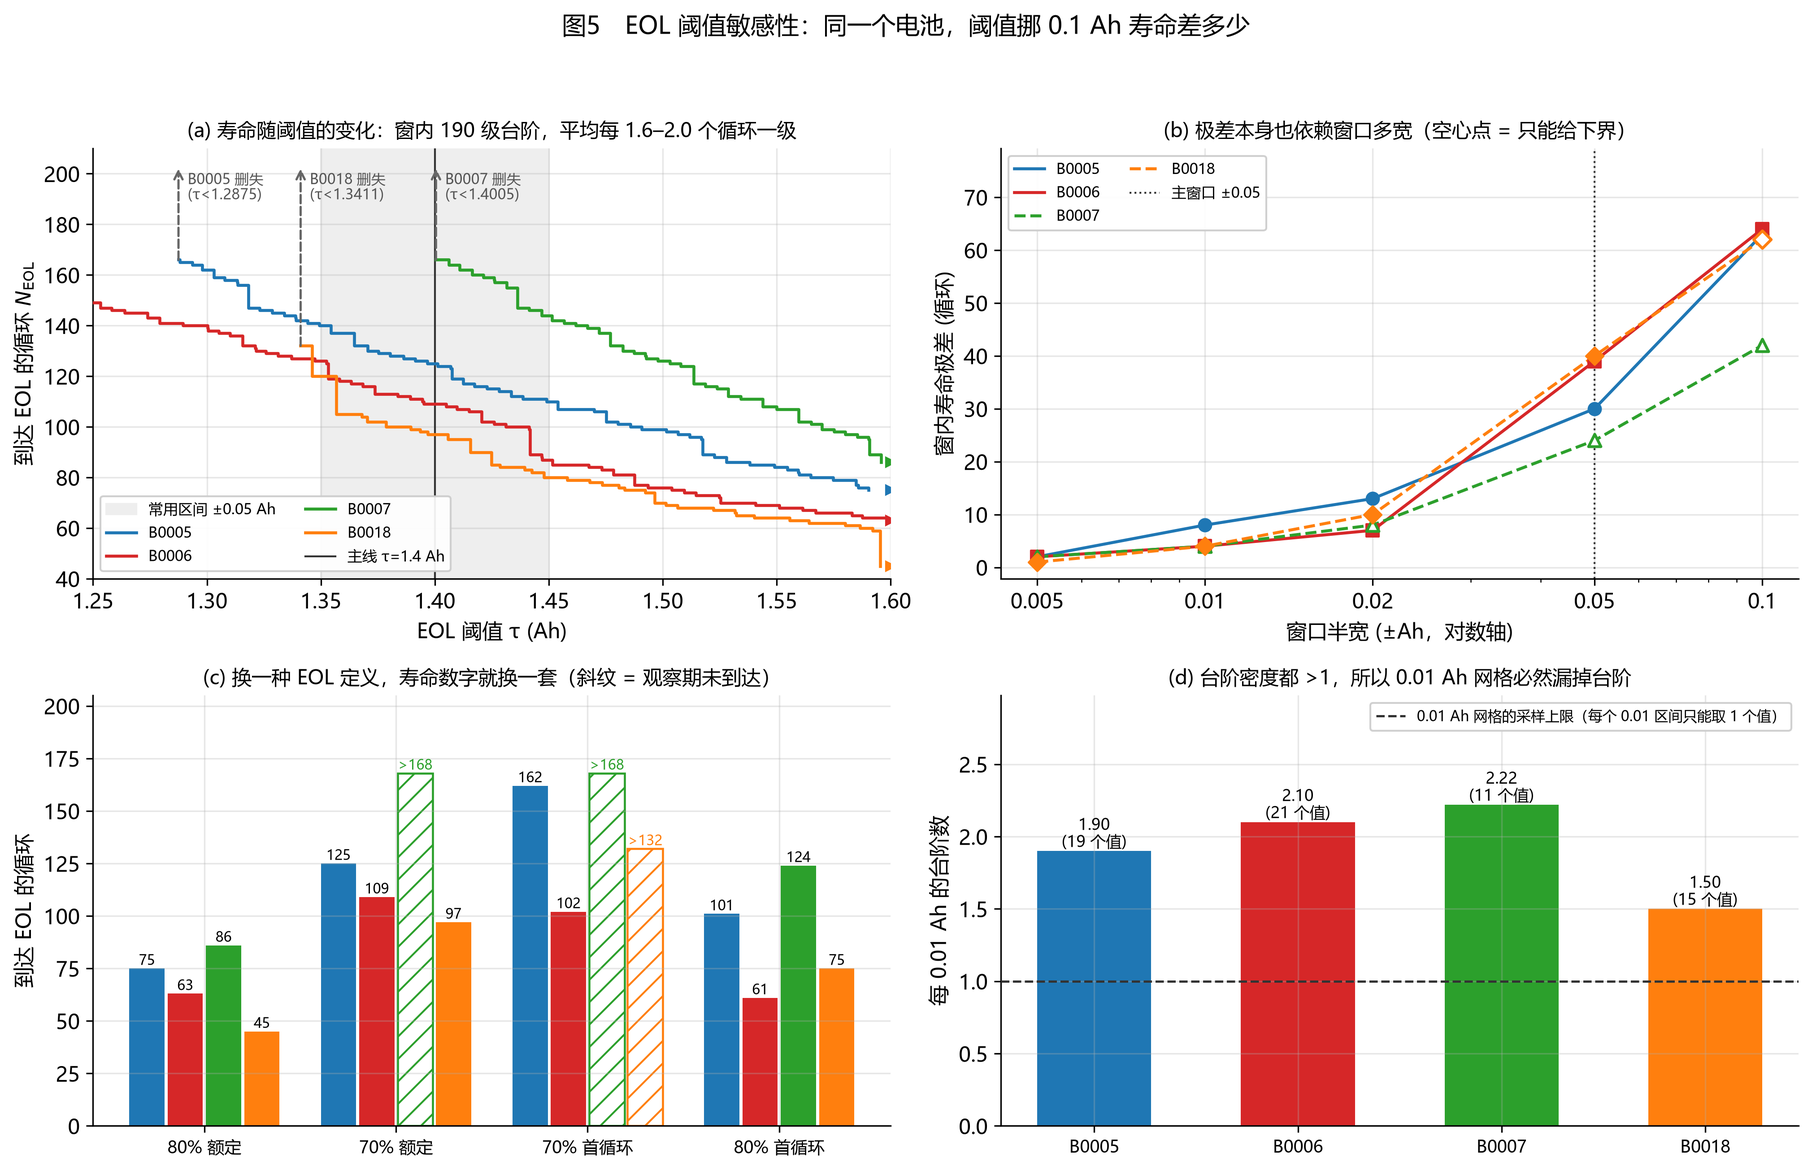
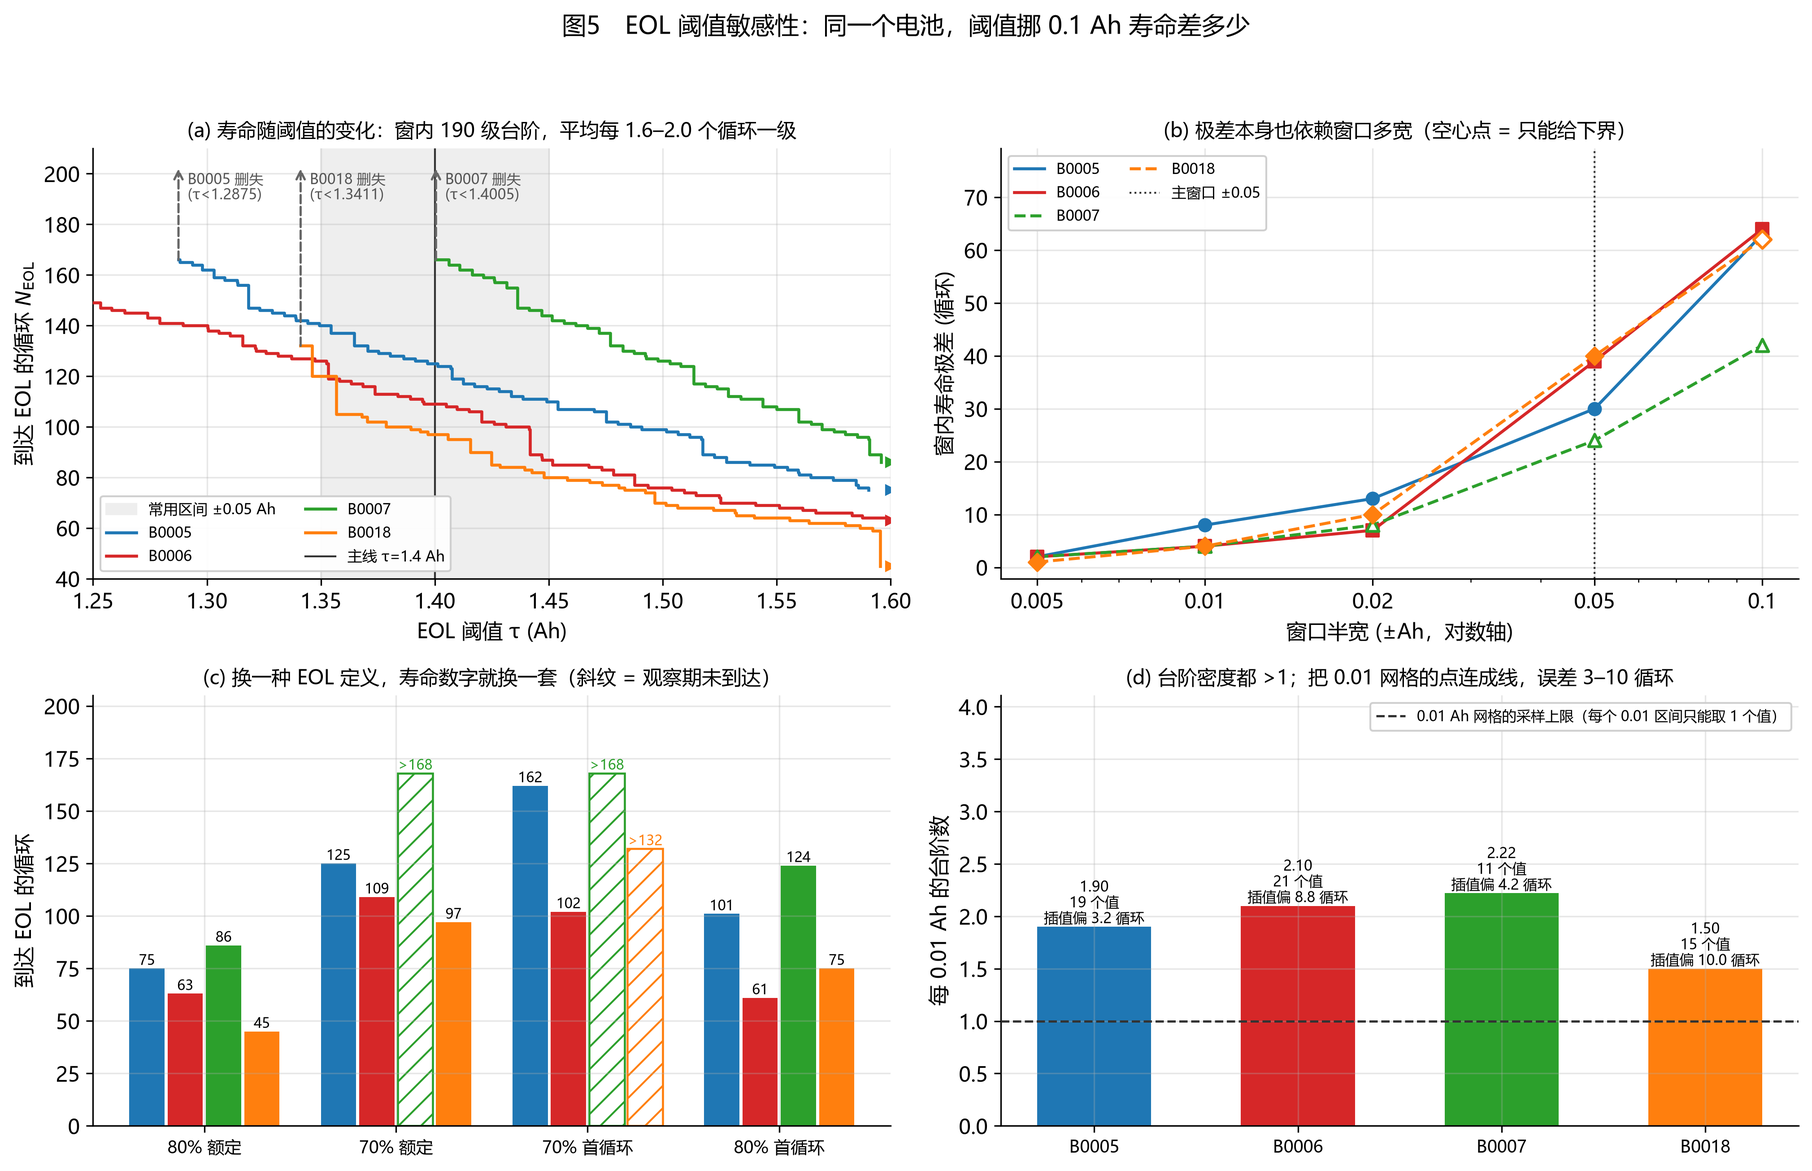
fix(W7): 自查修掉 5 处过度断言，并把网格误差量化成数字
- 「网格会混叠」改成准确说法：采样值本身精确，丢的是分辨率；
  新增 grid_linearisation_error：0.01 网格 + 线性插值最大偏 3.2-10.0 循环（占阈值效应 11%-25%）
- 「刻度比要量的差别还粗」这类越界的比喻删掉（误差 10 vs 效应 30-40，比喻不成立）
- 列名 上偏/下偏 改为 Δ寿命 @下界/@上界：原名会被读成「阈值方向」，含义正好相反
  （顺带修掉一个真 bug：列名含每行的有效下界，B0007 会多长出一列）
- 「两侧并不相等」与「B0005 两侧相等」自相矛盾 → 改为「不能假设两侧对称」
- 不对称方向改为按数字生成，不再手写「B0006 下偏更大」这类结论

diff --git a/src/sensitivity.py b/src/sensitivity.py
@@ -207,8 +207,12 @@ def range_table(series: dict[str, tuple[np.ndarray, np.ndarray]]) -> pd.DataFram
                 "EOL@上界": str(e_hi),
                 "极差 (循环)": str(span),
                 "每 0.01 Ah 的循环数": f"{span / ((hi - lo_eff) / 0.01):.2f}",
-                "上偏 Δ": "—" if e_main is None else f"{e_lo - e_main:+d}",
-                "下偏 Δ": "—" if e_main is None else f"{e_hi - e_main:+d}",
+                # 列名必须与本行数据无关（常量字符串），否则 B0007 那种
+                # 「有效下界不同」的行会多长出一列来——首版就是这么炸的。
+                # 列名写成「@下界/@上界」而不是「上偏/下偏」：后者会被读成
+                # 「阈值上移/下移」，而这里记的是「寿命增减」，方向刚好相反。
+                "Δ寿命 @下界": "—" if e_main is None else f"{e_lo - e_main:+d}",
+                "Δ寿命 @上界": "—" if e_main is None else f"{e_hi - e_main:+d}",
             }
         )
     return pd.DataFrame(rows)
@@ -236,6 +240,45 @@ def window_sweep(series: dict[str, tuple[np.ndarray, np.ndarray]]) -> pd.DataFra
             else:
                 rec[f"±{h:g}"] = str(eol_at_exact(cap, lo) - e_hi)
         rows.append(rec)
+    return pd.DataFrame(rows)
+
+
+def grid_linearisation_error(series: dict[str, tuple[np.ndarray, np.ndarray]],
+                             step: float = 0.01, sub: int = 200) -> pd.DataFrame:
+    """0.01 Ah 网格 + 线性插值画出来的曲线，与真实阶梯的最大偏差（循环）。
+
+    为什么需要这个数：光说「网格会漏台阶」是**不严谨的**。
+    阶梯是单调的，所以网格在采样点上的取值**是精确的**；损失的只是分辨率。
+    真正会出错的是「把相邻采样点用直线连起来」这个动作——几乎所有人（包括
+    matplotlib 的默认行为）都会这么做。所以这里直接量化那个偏差：
+    在每 0.01 Ah 的格子内用 200 个点比对「线性插值值」与「真实阶梯值」。
+    """
+    lo, hi = MAIN_TAU - WINDOW_HALF, MAIN_TAU + WINDOW_HALF
+    n_cell = int(round((hi - lo) / step))
+    ts = np.round(np.arange(lo, hi + 1e-12, step), 10)
+    assert len(ts) == n_cell + 1, "网格点数与步长不符"
+    rows = []
+    for cell, (_, cap) in series.items():
+        ys = [eol_at_exact(cap, t) for t in ts]
+        fine = np.linspace(lo, hi, n_cell * sub + 1)
+        devs = []
+        for t in fine:
+            true = eol_at_exact(cap, t)
+            if true is None:  # 该点真实值删失，无法比较
+                continue
+            k = min(int((t - lo) / step), n_cell - 1)
+            if ys[k] is None or ys[k + 1] is None:
+                continue
+            frac = min(max((t - ts[k]) / step, 0.0), 1.0)
+            devs.append(abs(ys[k] + frac * (ys[k + 1] - ys[k]) - true))
+        assert devs, f"{cell} 没有可比对的点"
+        rows.append(
+            {
+                "电池": cell,
+                "0.01 网格线性插值 最大偏差 (循环)": f"{max(devs):.1f}",
+                "平均偏差 (循环)": f"{np.mean(devs):.2f}",
+            }
+        )
     return pd.DataFrame(rows)
 
 
@@ -371,6 +414,7 @@ def fig05(
     tbl_res: pd.DataFrame,
     tbl_win: pd.DataFrame,
     tbl_def: pd.DataFrame,
+    tbl_err: pd.DataFrame,
     scan: dict,
 ) -> Path:
     setup_matplotlib()
@@ -479,18 +523,22 @@ def fig05(
     xpos = np.arange(len(cells))
     dens = tbl_res["每 0.01 Ah 的台阶数"].to_numpy(float)
     n_reach = tbl_res["窗内可达 EOL 值"].to_numpy(float)
+    err = dict(
+        zip(tbl_err["电池"], tbl_err["0.01 网格线性插值 最大偏差 (循环)"].astype(float))
+    )
     ax.bar(xpos, dens, width=0.56, color=[COLORS[c] for c in cells])
-    for xi, v, k in zip(xpos, dens, n_reach):
-        ax.text(xi, v, f"{v:.2f}\n({int(k)} 个值)", ha="center", va="bottom",
-                fontsize=8.4)
+    for xi, v, k, c in zip(xpos, dens, n_reach, cells):
+        ax.text(xi, v, f"{v:.2f}\n{int(k)} 个值\n插值偏 {err[c]:.1f} 循环",
+                ha="center", va="bottom", fontsize=7.6)
     ax.axhline(1.0, color="#333333", ls="--", lw=1.2, zorder=3,
                label="0.01 Ah 网格的采样上限（每个 0.01 区间只能取 1 个值）")
     ax.set_xticks(xpos)
     ax.set_xticklabels(cells, fontsize=9)
     ax.set_ylabel("每 0.01 Ah 的台阶数")
-    ax.set_ylim(0, dens.max() * 1.34)
+    ax.set_ylim(0, dens.max() * 1.85)
     ax.legend(loc="upper right", fontsize=7.8, framealpha=0.92)
-    ax.set_title("(d) 台阶密度都 >1，所以 0.01 Ah 网格必然漏掉台阶", fontsize=10.5)
+    ax.set_title("(d) 台阶密度都 >1；把 0.01 网格的点连成线，误差 3–10 循环",
+                 fontsize=10.5)
 
     fig.suptitle("图5　EOL 阈值敏感性：同一个电池，阈值挪 0.1 Ah 寿命差多少",
                  fontsize=13, y=0.985)
@@ -508,6 +556,7 @@ def render_md(
     tbl_win: pd.DataFrame,
     tbl_res: pd.DataFrame,
     tbl_def: pd.DataFrame,
+    tbl_err: pd.DataFrame,
     scan: dict,
 ) -> str:
     cells = [c for c in BATTERIES if c in series]
@@ -527,16 +576,32 @@ def render_md(
     rng = tbl_rng.set_index("电池")
     per_001 = {c: float(rng.loc[c, "每 0.01 Ah 的循环数"]) for c in cells}
     span = {c: int(rng.loc[c, "极差 (循环)"]) for c in cells}
-    upper_shift = {c: int(rng.loc[c, "上偏 Δ"]) for c in cells if rng.loc[c, "上偏 Δ"] != "—"}
-    lower_shift = {c: int(rng.loc[c, "下偏 Δ"]) for c in cells if rng.loc[c, "下偏 Δ"] != "—"}
+    delta_cols = [c for c in rng.columns if c.startswith("Δ寿命 @")]
+    assert len(delta_cols) == 2, f"Δ 寿命列应为 2 列，实际 {delta_cols}"
+    col_lo, col_hi = delta_cols  # 「@下界」= 窗口下界处相对主线的寿命变化
+    upper_shift = {c: int(rng.loc[c, col_lo]) for c in cells if rng.loc[c, col_lo] != "—"}
+    lower_shift = {c: int(rng.loc[c, col_hi]) for c in cells if rng.loc[c, col_hi] != "—"}
     span_finite = [span[c] for c in cells if c in upper_shift]
-    asymmetric = [
-        c for c in upper_shift
-        if abs(upper_shift[c]) != abs(lower_shift[c])
-    ]
-    asym_txt = "；".join(
-        f"{c} 上偏 {upper_shift[c]:+d} / 下偏 {lower_shift[c]:+d}" for c in upper_shift
+    err_max = dict(
+        zip(tbl_err["电池"], tbl_err["0.01 网格线性插值 最大偏差 (循环)"].astype(float))
     )
+    # 占比只在「三块非删失电池」上算：B0007 的极差 22 是被截断后的窗口，
+    # 拿它当分母会把占比抬高，两个数不是同一把尺。
+    err_ratio = {c: err_max[c] / span[c] for c in cells if c in upper_shift}
+    # 「两侧变化量是否相等」这句话必须由数字生成，不能手写——
+    # 上一稿就是手写的「阈值下移影响更大」，而实测方向并不统一（D19）。
+    asym_txt = "；".join(
+        f"{c} 下移到 {MAIN_TAU - WINDOW_HALF:g} 时 {upper_shift[c]:+d}"
+        f"、上移到 {MAIN_TAU + WINDOW_HALF:g} 时 {lower_shift[c]:+d}"
+        for c in upper_shift
+    )
+    equal_side = [c for c in upper_shift if abs(upper_shift[c]) == abs(lower_shift[c])]
+    worse_on_up = [
+        c for c in upper_shift if abs(lower_shift[c]) > abs(upper_shift[c])
+    ]
+    worse_on_down = [
+        c for c in upper_shift if abs(upper_shift[c]) > abs(lower_shift[c])
+    ]
     # B0007 的等宽对照
     b7 = equal_width_span(series, "B0007", 2 * WINDOW_HALF)
     b7_narrow = (MAIN_TAU + WINDOW_HALF) - b7["lo"]
@@ -609,10 +674,25 @@ def render_md(
         tbl_res.to_markdown(index=False, disable_numparse=True),
         "",
         f"读法：台阶密度 {min(dens.values()):.2f}–{max(dens.values()):.2f}"
-        "（每 0.01 Ah 的区间里平均有几级台阶）。"
-        "把网格撒在这条轴上时，落点只会稀疏地命中少数几级台阶，"
-        "**台阶的级数与位置都看不出来（混叠）**——"
-        "这正是本模块改用断点集画图和统计的理由。",
+        "（每 0.01 Ah 的区间里平均有几级台阶）。",
+        "",
+        "但这里有一句必须说准确的话：**网格的采样值本身并没有错。**"
+        "阶梯是单调的，所以网格落在哪一点，那一点的值就是精确的；"
+        "损失的只是**分辨率**——两级相邻台阶落在同一格内时分不开。"
+        "真正会出错的是下一步：把相邻采样点用直线连起来（matplotlib 的默认行为）。"
+        "这个偏差是可以算的，见下表。",
+        "",
+        tbl_err.to_markdown(index=False, disable_numparse=True),
+        "",
+        f"（B0007 的可比区间只有 τ ≥ {censored_below(series['B0007'][1]):.4f} Ah 的部分，"
+        "删失段没有真值可比，已跳过。）",
+        "",
+        "也就是说：**用 0.01 Ah 网格画出来的寿命曲线，格子内最多偏 "
+        f"{min(err_max.values()):.1f}–{max(err_max.values()):.1f} 个循环**，"
+        f"而本节要测的阈值效应本身只有 {min(span_finite)}–{max(span_finite)} 循环。"
+        f"误差占到效应的 {min(err_ratio.values()):.0%}–{max(err_ratio.values()):.0%}——"
+        "用它做敏感性分析，等于把十分之一到四分之一的假变化混进本来就要精确读的这几十个循环里。"
+        "这就是本模块坚持用断点集画图和统计的理由。",
         "",
         f"交叉验证：两种独立实现（朴素首命中扫描 / 前缀最小断点法）在 "
         f"{len(scan['grid']) * len(cells)} 个网格点上逐点比对，**0 处不一致**；"
@@ -640,14 +720,23 @@ def render_md(
         "",
         "两个必须点出来的细节：",
         "",
-        "1. **上下偏的方向不一致，所以不能说「阈值下移影响更大」。** "
-        f"以主阈值 ±{WINDOW_HALF:g} Ah 计：{asym_txt}（循环）。"
-        f"B0005 两侧相等；{ '、'.join(c for c in asymmetric if abs(lower_shift[c]) > abs(upper_shift[c])) }"
-        " 的下偏更大（阈值抬高、判定更严，寿命缩短更多）；"
-        f"{ '、'.join(c for c in asymmetric if abs(upper_shift[c]) > abs(lower_shift[c])) }"
-        " 则相反。**方向不统一，所以本节不主张任何单一方向的不对称**——"
-        "只如实地把两个数都列出来。报告里若写「±X 循环」，必须说明这是把两侧"
-        "合起来的总宽度，不是两侧各自都等于 X。",
+        "1. **不能假设两侧对称。** "
+        f"相对于主线 τ={MAIN_TAU:g}，把阈值下移到 "
+        f"{MAIN_TAU - WINDOW_HALF:g} 与上移到 {MAIN_TAU + WINDOW_HALF:g}，"
+        f"寿命的变化分别是：{asym_txt}（循环，正 = 寿命比主线长）。",
+        "按绝对值看："
+        + (f"{'、'.join(equal_side)} 两侧相等" if equal_side else "没有一块两侧相等")
+        + (
+            f"；{'、'.join(worse_on_up)} 是「阈值上调对寿命的削减」更大"
+            if worse_on_up else ""
+        )
+        + (
+            f"；{'、'.join(worse_on_down)} 是「阈值下调带来的寿命增益」更大"
+            if worse_on_down else ""
+        )
+        + "。**方向不统一，本节因此不主张任何单一方向的不对称**——"
+        "只如实地把两个数都列出来。报告里若写「±X 循环」，必须说明这是两侧合起来的总宽度，"
+        "不是两侧各自都等于 X。",
         "2. **B0007 的窗口被删失截断。** 它在 τ < "
         f"{b7_bound:.4f} Ah 时就删失了，所以有效下界是 {b7_bound:.4f} 而不是 "
         f"{MAIN_TAU - WINDOW_HALF:g}，极差 {span['B0007']} 循环是"
@@ -722,7 +811,7 @@ def render_md(
         "「定义不确定」这一层折算成的循环数带宽（正式口径 ±"
         f"{WINDOW_HALF:g} Ah）：",
         "",
-        "| 电池 | 主线 EOL | 窗内 EOL 区间 | 总宽度 (循环) | 相对主线 |",
+        "| 电池 | 主线 EOL | 窗内 EOL 区间 | 总宽度 (循环) | 相对主线（区间两端） |",
         "|---|---|---|---|---|",
     ]
     for c in cells:
@@ -822,6 +911,7 @@ def main() -> int:
     tbl_rng = range_table(series)
     tbl_win = window_sweep(series)
     tbl_res = resolution_table(series)
+    tbl_err = grid_linearisation_error(series)
     tbl_def = definition_table(series)
     scan = invariance_scan(series)
     assert len(scan["full_orders"]) == 1, f"排序不唯一：{scan['full_orders']}"
@@ -835,7 +925,7 @@ def main() -> int:
     assert _cfg.EOL_RATIO == 0.70, "扫描过程改动了 config 的 EOL_RATIO"
 
     TABLE_MD.write_text(
-        render_md(series, tbl_key, tbl_rng, tbl_win, tbl_res, tbl_def, scan),
+        render_md(series, tbl_key, tbl_rng, tbl_win, tbl_res, tbl_def, tbl_err, scan),
         encoding="utf-8",
     )
 
@@ -858,7 +948,7 @@ def main() -> int:
             )
     pd.DataFrame(rows).to_csv(BREAK_CSV, index=False, encoding="utf-8-sig")
 
-    fig_path = fig05(series, tbl_res, tbl_win, tbl_def, scan)
+    fig_path = fig05(series, tbl_res, tbl_win, tbl_def, tbl_err, scan)
 
     print(f"扫描区间：τ ∈ [{PLAUSIBLE_LO:g}, {PLAUSIBLE_HI:g}]，网格 {len(grid)} 点 × {len(cells)} 块")
     print(f"两种实现交叉验证：{n_cmp} 次比对，0 处不一致")

diff --git a/outputs/tables/eol_threshold_sensitivity.md b/outputs/tables/eol_threshold_sensitivity.md
@@ -24,7 +24,20 @@ EOL 阈值是工程惯例，不是物理常数。本节把 τ 从 1.25 扫到 1.
 | B0007 | 0.0495        | 11           | 2.22             | 2.20         |
 | B0018 | 0.1000        | 15           | 1.50             | 2.86         |
 
-读法：台阶密度 1.50–2.22（每 0.01 Ah 的区间里平均有几级台阶）。把网格撒在这条轴上时，落点只会稀疏地命中少数几级台阶，**台阶的级数与位置都看不出来（混叠）**——这正是本模块改用断点集画图和统计的理由。
+读法：台阶密度 1.50–2.22（每 0.01 Ah 的区间里平均有几级台阶）。
+
+但这里有一句必须说准确的话：**网格的采样值本身并没有错。**阶梯是单调的，所以网格落在哪一点，那一点的值就是精确的；损失的只是**分辨率**——两级相邻台阶落在同一格内时分不开。真正会出错的是下一步：把相邻采样点用直线连起来（matplotlib 的默认行为）。这个偏差是可以算的，见下表。
+
+| 电池    | 0.01 网格线性插值 最大偏差 (循环)   | 平均偏差 (循环)   |
+|:------|:------------------------|:------------|
+| B0005 | 3.2                     | 0.63        |
+| B0006 | 8.8                     | 0.99        |
+| B0007 | 4.2                     | 0.81        |
+| B0018 | 10.0                    | 0.98        |
+
+（B0007 的可比区间只有 τ ≥ 1.4005 Ah 的部分，删失段没有真值可比，已跳过。）
+
+也就是说：**用 0.01 Ah 网格画出来的寿命曲线，格子内最多偏 3.2–10.0 个循环**，而本节要测的阈值效应本身只有 30–40 循环。误差占到效应的 11%–25%——用它做敏感性分析，等于把十分之一到四分之一的假变化混进本来就要精确读的这几十个循环里。这就是本模块坚持用断点集画图和统计的理由。
 
 交叉验证：两种独立实现（朴素首命中扫描 / 前缀最小断点法）在 564 个网格点上逐点比对，**0 处不一致**；同一网格上另验证了 `N_EOL` 随 τ 单调不增。
 
@@ -47,18 +60,19 @@ EOL 阈值是工程惯例，不是物理常数。本节把 τ 从 1.25 扫到 1.
 
 窗口 [1.35, 1.45]（±0.05 Ah，即额定容量的 ±2.5%）：
 
-| 电池    | 有效窗口 (Ah)        | EOL@下界   | EOL@1.40   | EOL@上界   | 极差 (循环)   | 每 0.01 Ah 的循环数   | 上偏 Δ   | 下偏 Δ   |
-|:------|:-----------------|:---------|:-----------|:---------|:----------|:-----------------|:-------|:-------|
-| B0005 | [1.3500, 1.4500] | 140      | 125        | 110      | 30        | 3.00             | +15    | -15    |
-| B0006 | [1.3500, 1.4500] | 126      | 109        | 87       | 39        | 3.90             | +17    | -22    |
-| B0007 | [1.4005, 1.4500] | 166      | —          | 144      | 22        | 4.44             | —      | —      |
-| B0018 | [1.3500, 1.4500] | 120      | 97         | 80       | 40        | 4.00             | +23    | -17    |
+| 电池    | 有效窗口 (Ah)        | EOL@下界   | EOL@1.40   | EOL@上界   | 极差 (循环)   | 每 0.01 Ah 的循环数   | Δ寿命 @下界   | Δ寿命 @上界   |
+|:------|:-----------------|:---------|:-----------|:---------|:----------|:-----------------|:----------|:----------|
+| B0005 | [1.3500, 1.4500] | 140      | 125        | 110      | 30        | 3.00             | +15       | -15       |
+| B0006 | [1.3500, 1.4500] | 126      | 109        | 87       | 39        | 3.90             | +17       | -22       |
+| B0007 | [1.4005, 1.4500] | 166      | —          | 144      | 22        | 4.44             | —         | —         |
+| B0018 | [1.3500, 1.4500] | 120      | 97         | 80       | 40        | 4.00             | +23       | -17       |
 
 读法：**阈值每偏 0.01 Ah（额定容量的 0.5%），寿命差 3.00–4.44 个循环**。另外三块的极差是 30–40 循环；B0007 的 22 是在更窄的窗口上算的，见下面第 2 条。
 
 两个必须点出来的细节：
 
-1. **上下偏的方向不一致，所以不能说「阈值下移影响更大」。** 以主阈值 ±0.05 Ah 计：B0005 上偏 +15 / 下偏 -15；B0006 上偏 +17 / 下偏 -22；B0018 上偏 +23 / 下偏 -17（循环）。B0005 两侧相等；B0006 的下偏更大（阈值抬高、判定更严，寿命缩短更多）；B0018 则相反。**方向不统一，所以本节不主张任何单一方向的不对称**——只如实地把两个数都列出来。报告里若写「±X 循环」，必须说明这是把两侧合起来的总宽度，不是两侧各自都等于 X。
+1. **不能假设两侧对称。** 相对于主线 τ=1.4，把阈值下移到 1.35 与上移到 1.45，寿命的变化分别是：B0005 下移到 1.35 时 +15、上移到 1.45 时 -15；B0006 下移到 1.35 时 +17、上移到 1.45 时 -22；B0018 下移到 1.35 时 +23、上移到 1.45 时 -17（循环，正 = 寿命比主线长）。
+按绝对值看：B0005 两侧相等；B0006 是「阈值上调对寿命的削减」更大；B0018 是「阈值下调带来的寿命增益」更大。**方向不统一，本节因此不主张任何单一方向的不对称**——只如实地把两个数都列出来。报告里若写「±X 循环」，必须说明这是两侧合起来的总宽度，不是两侧各自都等于 X。
 2. **B0007 的窗口被删失截断。** 它在 τ < 1.4005 Ah 时就删失了，所以有效下界是 1.4005 而不是 1.35，极差 22 循环是在 0.0495 Ah 宽（而非 0.1 Ah）的窗口上算的。**换成同等宽度 [1.4005, 1.5005]，极差是 40 循环**，与另三块的量级一致。
 
 ## 五、极差本身也依赖窗口选多宽
@@ -107,7 +121,7 @@ EOL 阈值是工程惯例，不是物理常数。本节把 τ 从 1.25 扫到 1.
 
 「定义不确定」这一层折算成的循环数带宽（正式口径 ±0.05 Ah）：
 
-| 电池 | 主线 EOL | 窗内 EOL 区间 | 总宽度 (循环) | 相对主线 |
+| 电池 | 主线 EOL | 窗内 EOL 区间 | 总宽度 (循环) | 相对主线（区间两端） |
 |---|---|---|---|---|
 | B0005 | 125 | 110–140 | 30 | -12% / +12% |
 | B0006 | 109 | 87–126 | 39 | -20% / +16% |
